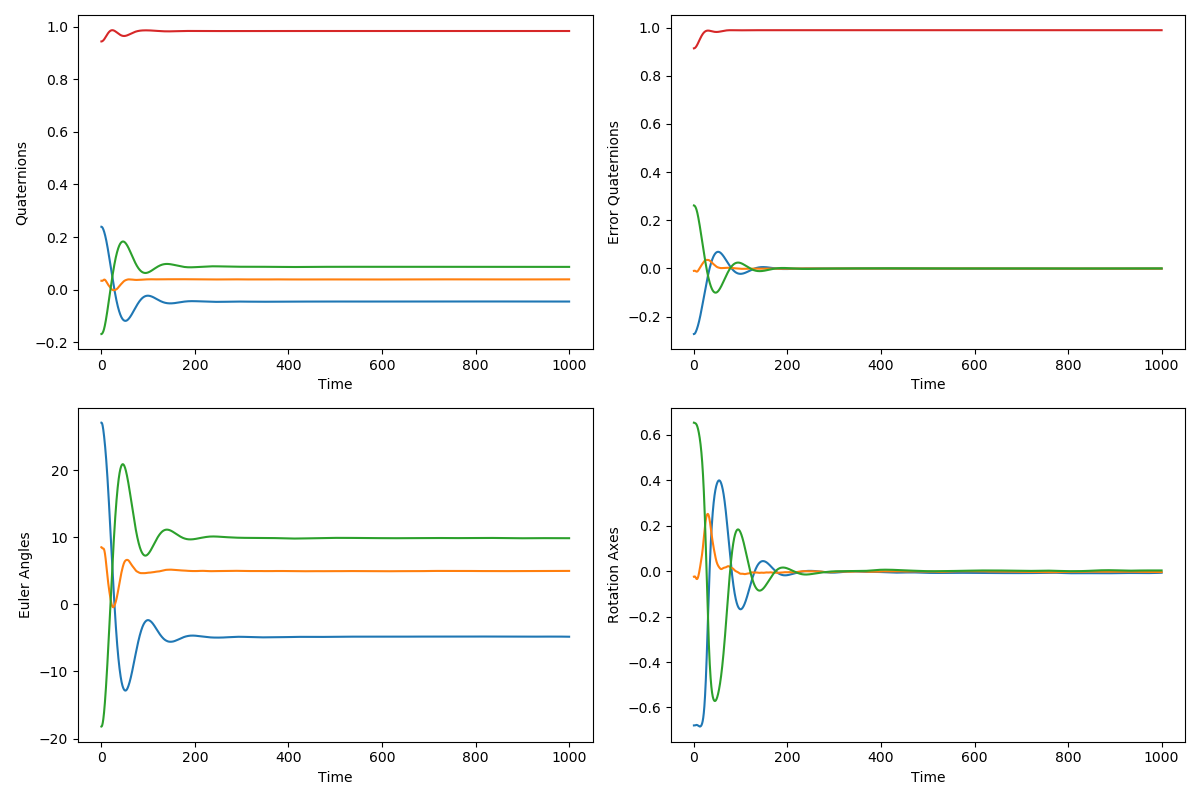
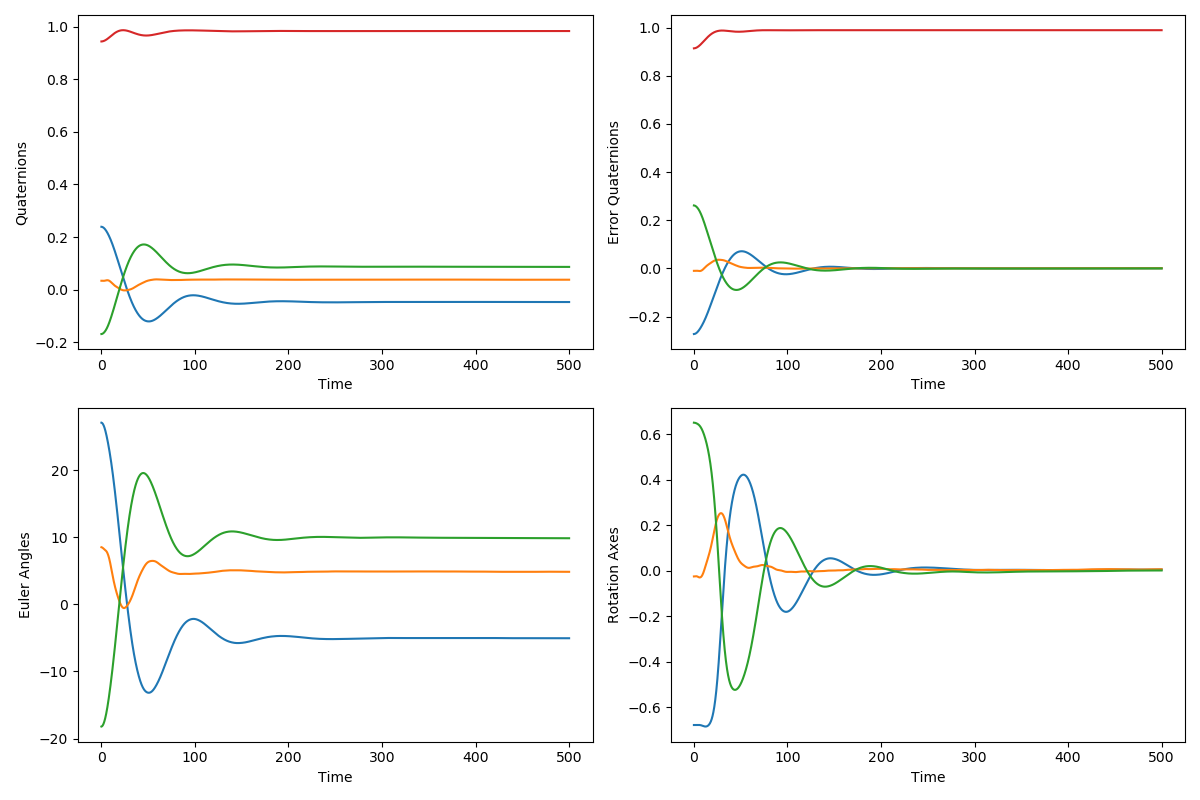
refactor: devide 3 controller

diff --git a/main.py b/main.py
@@ -1,33 +1,85 @@
+import math
 import numpy as np
-from scipy import linalg
+import plot as pt
+import transform as tf
+import ff.ff as ff
+import omega.omega as omega
+import state.state as state
 
-# Constants and parameters
-I = np.array([[1000, 0, 0],
-              [0, 60, 0],
-              [0, 0, 1000]])  # Inertia matrix
-A = np.zeros((6, 6))  # State matrix (3x3 quaternion error + 3x3 angular velocity error)
-A[3:, :3] = -np.linalg.inv(I)  # Fill the lower-left block with the negative inverse of the inertia matrix
-B = np.vstack((np.zeros((3, 3)), np.linalg.inv(I)))  # Input matrix (6x3, with the lower-right block being the inverse of the inertia matrix)
+# def debug_all():
+#     if DEBUG:
+#         debug("n_steps", n_steps)
+#         debug("q_current", q_current)
+#         debug("q_tgt", q_tgt)
+#         debug("q_err", q_err)
+#         debug("euler_angles_current", euler_angles_current)
+#         debug("lambdai", lambdai)
+#         debug("theta_err", theta_err)
+#         debug("disturbance_torque", disturbance_torque)
+#         debug("estimated_disturbance_torque", estimated_disturbance_torque)
+#         debug("u", u)
+#         debug("tmp_l", tmp_l)
+#         debug("tmp_r", tmp_r)
+#         debug("omega_dot", omega_dot)
+#         debug("q_dot", q_dot)
+#         debug("omega_current", omega_current)
 
-# LQR weights
-Q = np.diag([1, 1, 1, 1e-2, 1e-2, 1e-2])  # State weight matrix (emphasize quaternion error over angular velocity error)
-R = np.diag([1e-3, 1e-3, 1e-3])  # Control input weight matrix (minimize torque)
 
-# Calculate the LQR gain matrix K
-P = linalg.solve_continuous_are(A, B, Q, R)
-K = np.linalg.inv(R) @ B.T @ P
+def debug(name, value):
+    print("{}: {}".format(name, value))
 
-# Simulation parameters
-n_steps = 100
+DEBUG = 0
+
+I = np.array([
+    [1000, 0, 0],
+    [0, 60, 0],
+    [-7, 0, 1000]
+])
+
+I_inv = np.linalg.inv(I)
+
+euler_angles_tgt = np.array([math.radians(-5), math.radians(5), math.radians(10)])  # 目標ｵｲﾗｰ角
+euler_angles_init = np.array([math.radians(30), math.radians(10), math.radians(-20)])  # 初期ｵｲﾗｰ角
+omega_init = np.array([0.0, 0.0, 0.0])  # 初期角速度
+
+# ｸｫｰﾀﾆｵﾝに変換
+q_current = tf.euler_to_quaternion(*euler_angles_init)
+q_tgt = tf.euler_to_quaternion(*euler_angles_tgt)
+q_err = tf.quaternion_multiply(tf.quaternion_inverse(q_current), q_tgt)
+omega_current = omega_init
+
+# ｼﾐｭﾚｰｼｮﾝﾊﾟﾗﾒｰﾀ
+n_steps = 5000
 dt = 0.1
 
-# Initial conditions
-q_err_init = np.array([0.1, 0.1, 0.1])  # Initial quaternion error
-omega_err_init = np.array([0.01, 0.01, 0.01])  # Initial angular velocity error
-state = np.hstack((q_err_init, omega_err_init))  # Initial state
+# plot用変数の生成
+q_current_his, q_err_his, theta_err_his, euler_angles_current_his, lambda_his = [], [], [], [], []
+estimated_disturbance_torque_his = []
 
-# Simulation loop
+# class生成
+ff = ff.DisturbTorq()
+omega = omega.AngulVelocity(omega_current)
+state = state.Quaternion(q_current, q_tgt)
+
+
 for step in range(n_steps):
-    u = -K @ state  # Calculate the control input (torque)
-    state_dot = A @ state + B @ u  # Update the state derivative
-    state += state_dot * dt  # Update the state
+    # 外乱ﾄﾙｸの算出
+    u = ff.calc_disturb_trq(q_err, omega_current, step)
+    # 角速度の算出
+    omega_current = omega.calc_omega(I, omega_current, u, I_inv, dt)
+    # ｸｫｰﾀﾆｵﾝの算出
+    q_current, q_err = state.calc_quater(omega_current, dt)
+
+    # debug用に座標変換を実施
+    euler_angles_current = tf.quaternion_to_euler(q_current) # ｸｫｰﾀﾆｵﾝからｵｲﾗｰ角を計算
+    lambdai, theta_err = tf.quaternion_to_axis_angle(q_err) # ｸｫｰﾀﾆｵﾝ誤差から回転単位ﾍﾞｸﾄﾙ、角度を計算
+
+    # 配列に各要素を追加
+    q_current_his.append(q_current.copy())
+    q_err_his.append(q_err)
+    euler_angles_current_his.append(euler_angles_current.copy())
+    lambda_his.append(lambdai)
+
+# ﾌﾟﾛｯﾄを実施
+pt.plot(q_current_his, q_err_his, euler_angles_current_his, lambda_his, n_steps)
+pt.plot2(estimated_disturbance_torque_his,  n_steps)

diff --git a/plot.py b/plot.py
@@ -12,20 +12,20 @@ def plot(q_current_his, q_err_his, euler_angles_current_his, lambda_his, n_steps
     euler_angles = np.array(euler_angles_current_his)
     rotation_axes = np.array(lambda_his)
 
-    # グラフの初期化
+    # ｸﾞﾗﾌの初期化
     fig, axs = plt.subplots(2, 2, figsize=(12, 8))
 
-    # 時間とクォータニオンの関係
+    # 時間とｸｫｰﾀﾆｵﾝの関係
     axs[0, 0].plot(time, quaternions)
     axs[0, 0].set_xlabel('Time')
     axs[0, 0].set_ylabel('Quaternions')
 
-    # 時間と誤差クォータニオンの関係
+    # 時間と誤差ｸｫｰﾀﾆｵﾝの関係
     axs[0, 1].plot(time, error_quaternions)
     axs[0, 1].set_xlabel('Time')
     axs[0, 1].set_ylabel('Error Quaternions')
 
-    # 時間とオイラー角の関係
+    # 時間とｵｲﾗｰ角の関係
     axs[1, 0].plot(time, euler_angles)
     axs[1, 0].set_xlabel('Time')
     axs[1, 0].set_ylabel('Euler Angles')
@@ -36,10 +36,10 @@ def plot(q_current_his, q_err_his, euler_angles_current_his, lambda_his, n_steps
     axs[1, 1].set_xlabel('Time')
     axs[1, 1].set_ylabel('Rotation Axes')
 
-    # グラフのレイアウトを調整
+    # ｸﾞﾗﾌのﾚｲｱｳﾄを調整
     fig.tight_layout()
 
-    # グラフをPNGファイルに保存
+    # ｸﾞﾗﾌをPNGﾌｧｲﾙに保存
     fig.savefig('out/combined_graph.png')
 
 def plot2(history, n_steps):
@@ -51,16 +51,16 @@ def plot2(history, n_steps):
     # euler_angles = np.array(euler_angles_current_his)
     # rotation_axes = np.array(lambda_his)
 
-    # グラフの初期化
+    # ｸﾞﾗﾌの初期化
     fig, axs = plt.subplots(2, 2, figsize=(12, 8))
 
-    # 時間とクォータニオンの関係
+    # 時間と外乱ﾄﾙｸの関係
     axs[0, 0].plot(time, quaternions)
     axs[0, 0].set_xlabel('Time')
     axs[0, 0].set_ylabel('disturbance_torque')
 
-    # グラフのレイアウトを調整
+    # ｸﾞﾗﾌのﾚｲｱｳﾄを調整
     fig.tight_layout()
 
-    # グラフをPNGファイルに保存
+    # ｸﾞﾗﾌをPNGﾌｧｲﾙに保存
     fig.savefig('out/disturbance_torque_graph.png')

diff --git a/ff/ff.py b/ff/ff.py
@@ -1,0 +1,49 @@
+import numpy as np
+import transform as tf
+
+# 簡易ｶﾙﾏﾝﾌｨﾙﾀｸﾗｽ
+class SimpleKalmanFilter:
+    def __init__(self, process_noise, measurement_noise, initial_estimate):
+        self.process_noise = process_noise
+        self.measurement_noise = measurement_noise
+        self.estimate = initial_estimate
+
+    def update(self, measurement):
+        # 予測ｽﾃｯﾌﾟ
+        prediction = self.estimate
+
+        # 更新ｽﾃｯﾌﾟ
+        kalman_gain = self.process_noise / (self.process_noise + self.measurement_noise)
+        self.estimate = prediction + kalman_gain * (measurement - prediction)
+        self.process_noise = (1 - kalman_gain) * self.process_noise
+
+        return self.estimate
+
+
+class DisturbTorq:
+    def __init__(self):
+        # ｶﾙﾏﾝﾌｨﾙﾀ初期化
+        self.disturb_torque_filter = SimpleKalmanFilter(0.1, 0.1, np.zeros(3))
+        self.alpha, self.beta = 10., 50.
+
+        self.period = 100 # 外乱ﾄﾙｸの周期
+        self.amplitude = np.array([0.5, 0.5, 0.5]) # 外乱ﾄﾙｸの振幅
+
+    # 外乱ﾄﾙｸ生成用関数
+    def generate_disturbance_torque(self, step):
+        return self.amplitude * np.sin(2 * np.pi * step / self.period) + np.random.normal(0, 0.5, 3)
+
+    def calc_disturb_trq(self, q_err, omega_err, step):
+
+        # 外乱ﾄﾙｸ生成
+        disturbance_torque = self.generate_disturbance_torque(step)
+
+        # 外乱ﾄﾙｸ推定
+        estimated_disturbance_torque = self.disturb_torque_filter.update(disturbance_torque)
+
+        state_fb = self.alpha * q_err[:3] - self.beta * omega_err
+
+        # Solve the motion equations
+        u = state_fb + estimated_disturbance_torque
+
+        return u

diff --git a/tmp/lqr.py b/tmp/lqr.py
@@ -1,0 +1,33 @@
+import numpy as np
+from scipy import linalg
+
+# Constants and parameters
+I = np.array([[1000, 0, 0],
+              [0, 60, 0],
+              [0, 0, 1000]])  # Inertia matrix
+A = np.zeros((6, 6))  # State matrix (3x3 quaternion error + 3x3 angular velocity error)
+A[3:, :3] = -np.linalg.inv(I)  # Fill the lower-left block with the negative inverse of the inertia matrix
+B = np.vstack((np.zeros((3, 3)), np.linalg.inv(I)))  # Input matrix (6x3, with the lower-right block being the inverse of the inertia matrix)
+
+# LQR weights
+Q = np.diag([1, 1, 1, 1e-2, 1e-2, 1e-2])  # State weight matrix (emphasize quaternion error over angular velocity error)
+R = np.diag([1e-3, 1e-3, 1e-3])  # Control input weight matrix (minimize torque)
+
+# Calculate the LQR gain matrix K
+P = linalg.solve_continuous_are(A, B, Q, R)
+K = np.linalg.inv(R) @ B.T @ P
+
+# Simulation parameters
+n_steps = 100
+dt = 0.1
+
+# Initial conditions
+q_err_init = np.array([0.1, 0.1, 0.1])  # Initial quaternion error
+omega_err_init = np.array([0.01, 0.01, 0.01])  # Initial angular velocity error
+state = np.hstack((q_err_init, omega_err_init))  # Initial state
+
+# Simulation loop
+for step in range(n_steps):
+    u = -K @ state  # Calculate the control input (torque)
+    state_dot = A @ state + B @ u  # Update the state derivative
+    state += state_dot * dt  # Update the state

diff --git a/state/state.py b/state/state.py
@@ -1,0 +1,16 @@
+import numpy as np
+import transform as tf
+
+class Quaternion:
+    def __init__(self, q_current, q_tgt):
+        self.q_current = q_current  # 初期角速度
+        self.q_tgt = q_tgt
+
+    def calc_quater(self, omega_err, dt):
+        # ｸｫｰﾀﾆｵﾝと角速度を更新
+        q_dot = 0.5 * tf.quaternion_multiply(self.q_current, np.append(omega_err, 0))
+        self.q_current += q_dot * dt
+
+        q_err = tf.quaternion_multiply(tf.quaternion_inverse(self.q_current), self.q_tgt)
+
+        return self.q_current, q_err

diff --git a/omega/omega.py b/omega/omega.py
@@ -1,0 +1,15 @@
+import numpy as np
+import transform as tf
+
+class AngulVelocity:
+    def __init__(self, omega_current):
+        self.omega_current = omega_current  # 初期角速度
+
+    def calc_omega(self, I, omega, u, I_inv, dt):
+        # # Solve the motion equations
+        tmp_l = (I @ omega.T).T
+        tmp_r = u - tf.tmp_multi(omega, tmp_l)
+        omega_dot = (I_inv @ tmp_r.T).T
+        self.omega_current += omega_dot * dt
+
+        return self.omega_current
